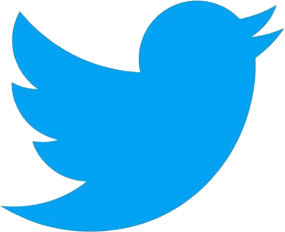
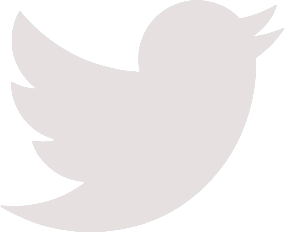
Changed twitter link color
Twitter link icon color changed to white and the background of it is a bit darker now

diff --git a/index.html b/index.html
@@ -26,7 +26,7 @@
             //barra.add_item(new Link("About me", "index.html", "", "goldenrod").get_link());
             document.body.appendChild(barra.get_barra());
 
-            var twitter = new Link("Twitter", "https://x.com/_Recery", "Images/Twitter.png", "#a1b9ff");
+            var twitter = new Link("Twitter", "https://x.com/_Recery", "Images/Twitter.png", "#6d90f7");
             var youtube = new Link("Youtube", "https://www.youtube.com/@SlimeShoot", "Images/Youtube.png", "red");
             var itchio = new Link("itch.io", "https://senkosan12543.itch.io/", "Images/itchio.png", "#fa5c5c");
             var kofi = new Link("Ko-fi", "https://ko-fi.com/recery", "Images/Kofi.png", "#101010", true);
